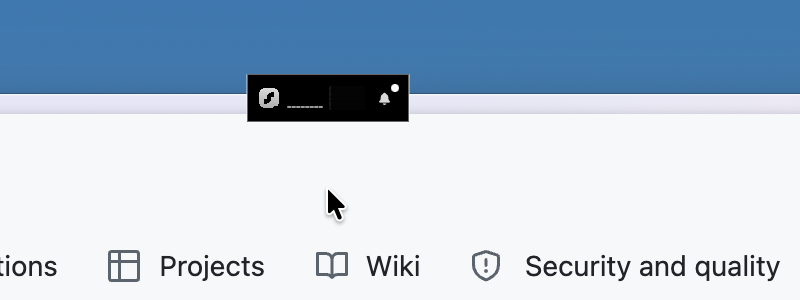
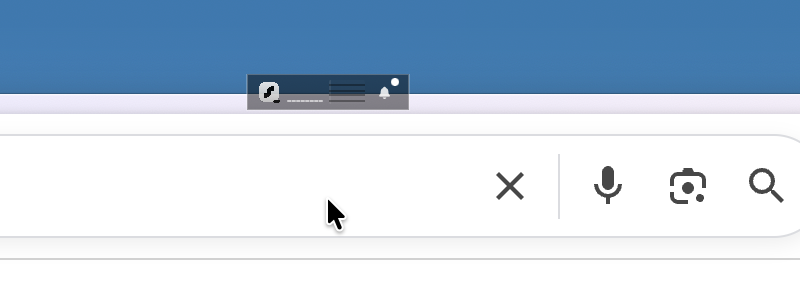
fix(mac): soften collapsed overlay

diff --git a/apps/screenpipe-app-tauri/src-tauri/swift/shortcut_reminder.swift b/apps/screenpipe-app-tauri/src-tauri/swift/shortcut_reminder.swift
@@ -296,7 +296,7 @@ struct ScreenMatrixView: View {
 
 // Base sizes — multiplied by gOverlayScale at panel creation
 private let kBaseCollapsedW: CGFloat = 81
-private let kBaseCollapsedH: CGFloat = 24
+private let kBaseCollapsedH: CGFloat = 18
 private let kBaseExpandedW: CGFloat = 224
 private let kBaseExpandedH: CGFloat = 62
 private let kBaseDockH: CGFloat = 30
@@ -619,8 +619,8 @@ struct ShortcutReminderView: View {
             .padding(.trailing, c(5))
         }
         .frame(width: kBaseCollapsedW * collapsedScale, height: kBaseCollapsedH * collapsedScale)
-        .background(Color.black)
-        .overlay(Rectangle().stroke(.white.opacity(0.4), lineWidth: 1))
+        .background(Color.black.opacity(0.46))
+        .overlay(Rectangle().stroke(.white.opacity(0.24), lineWidth: 1))
     }
 
     // MARK: - Expanded bar
